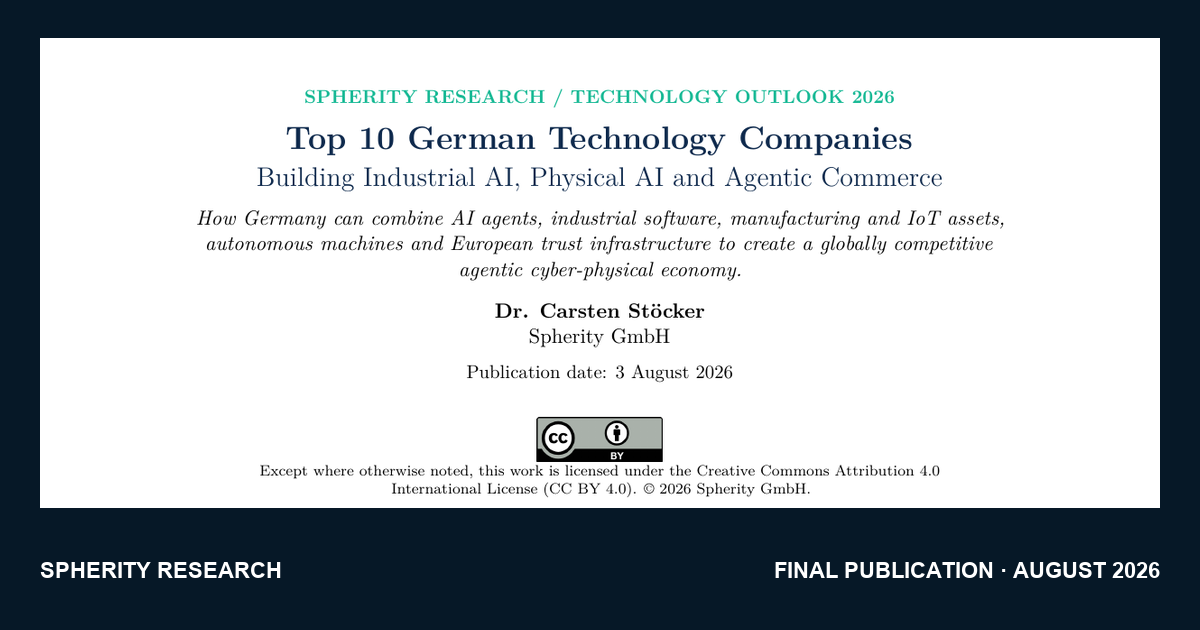
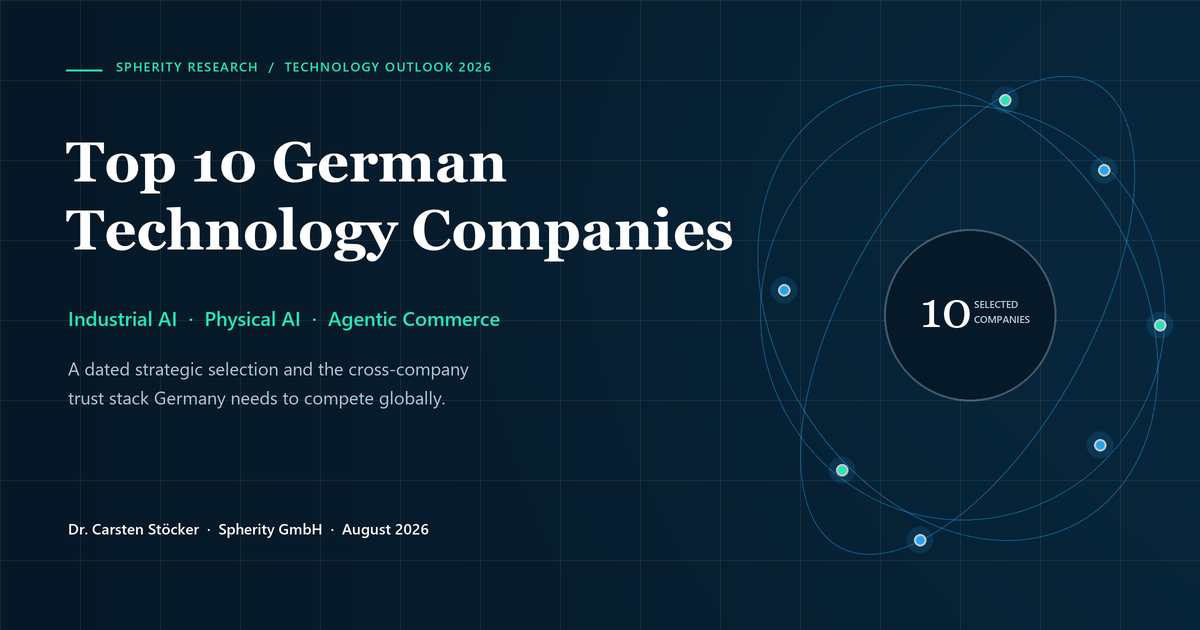
fix: harden crawler discovery and social previews

diff --git a/docs/index.md b/docs/index.md
@@ -54,7 +54,7 @@ og_type: "website"
 robots: "index, follow, max-snippet:-1, max-image-preview:large, max-video-preview:-1"
 last_modified_at: "2026-08-04"
 image: "/assets/spherity-research-og.png"
-image_alt: "Spherity Research — Identity. Infrastructure. Resilience."
+image_alt: "Spherity Research — research for the systems we need to trust, with the portal's orbital trust-system motif."
 ---
 
 <header class="portal-header">
